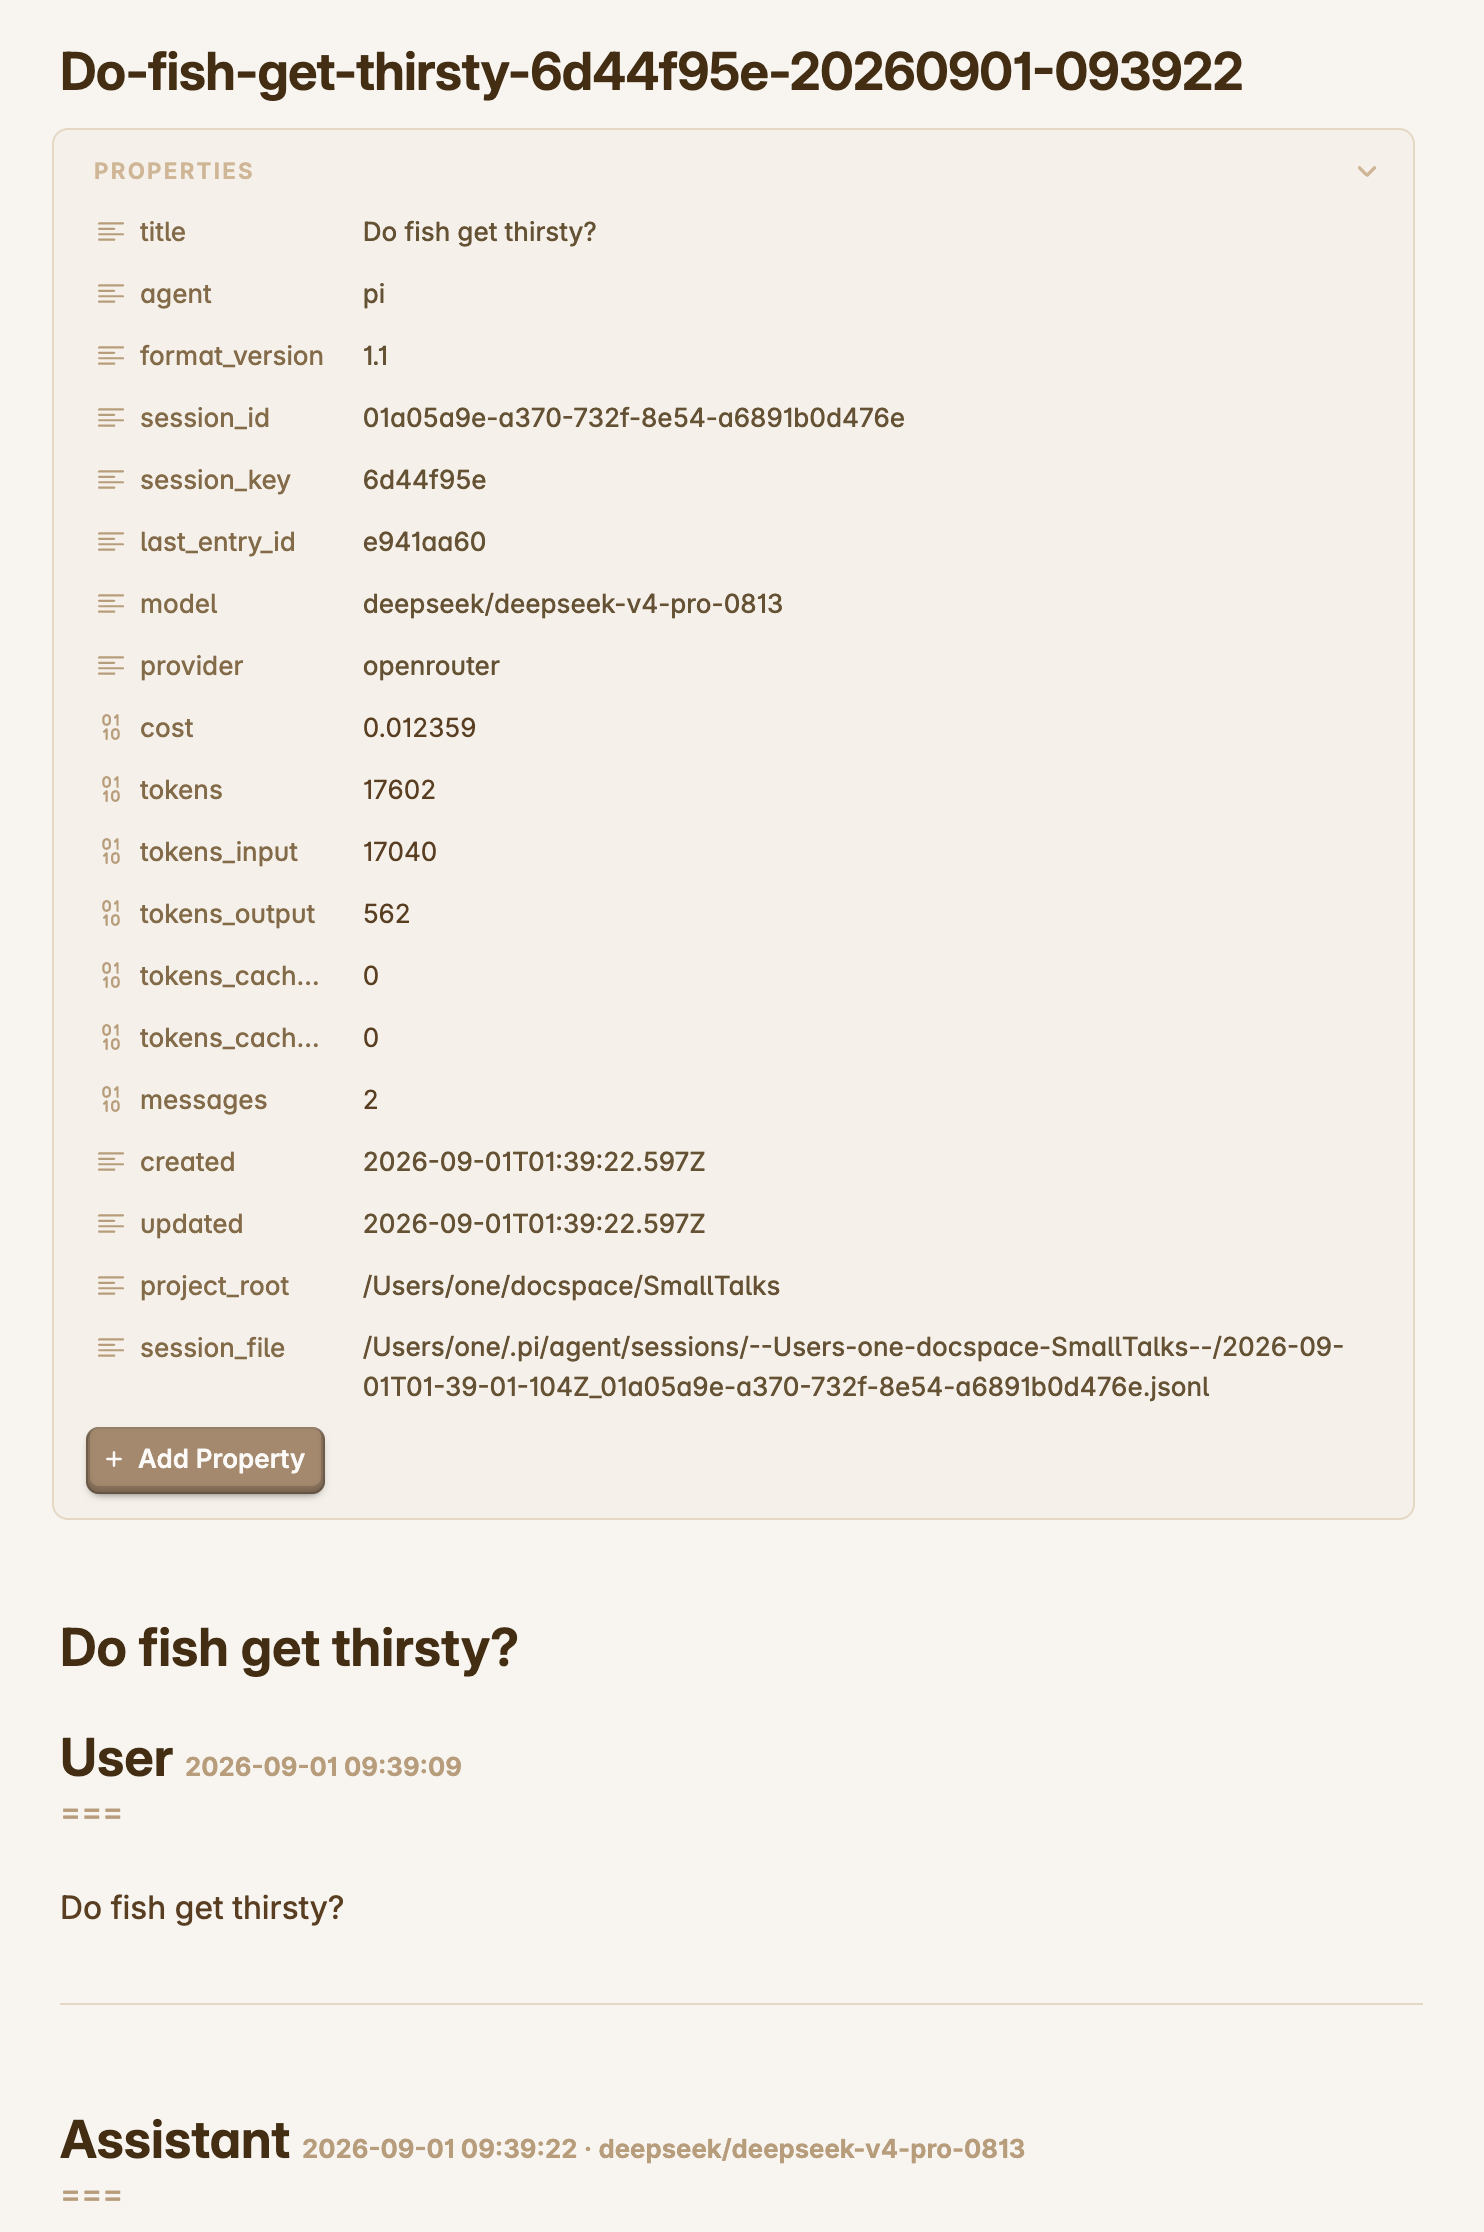
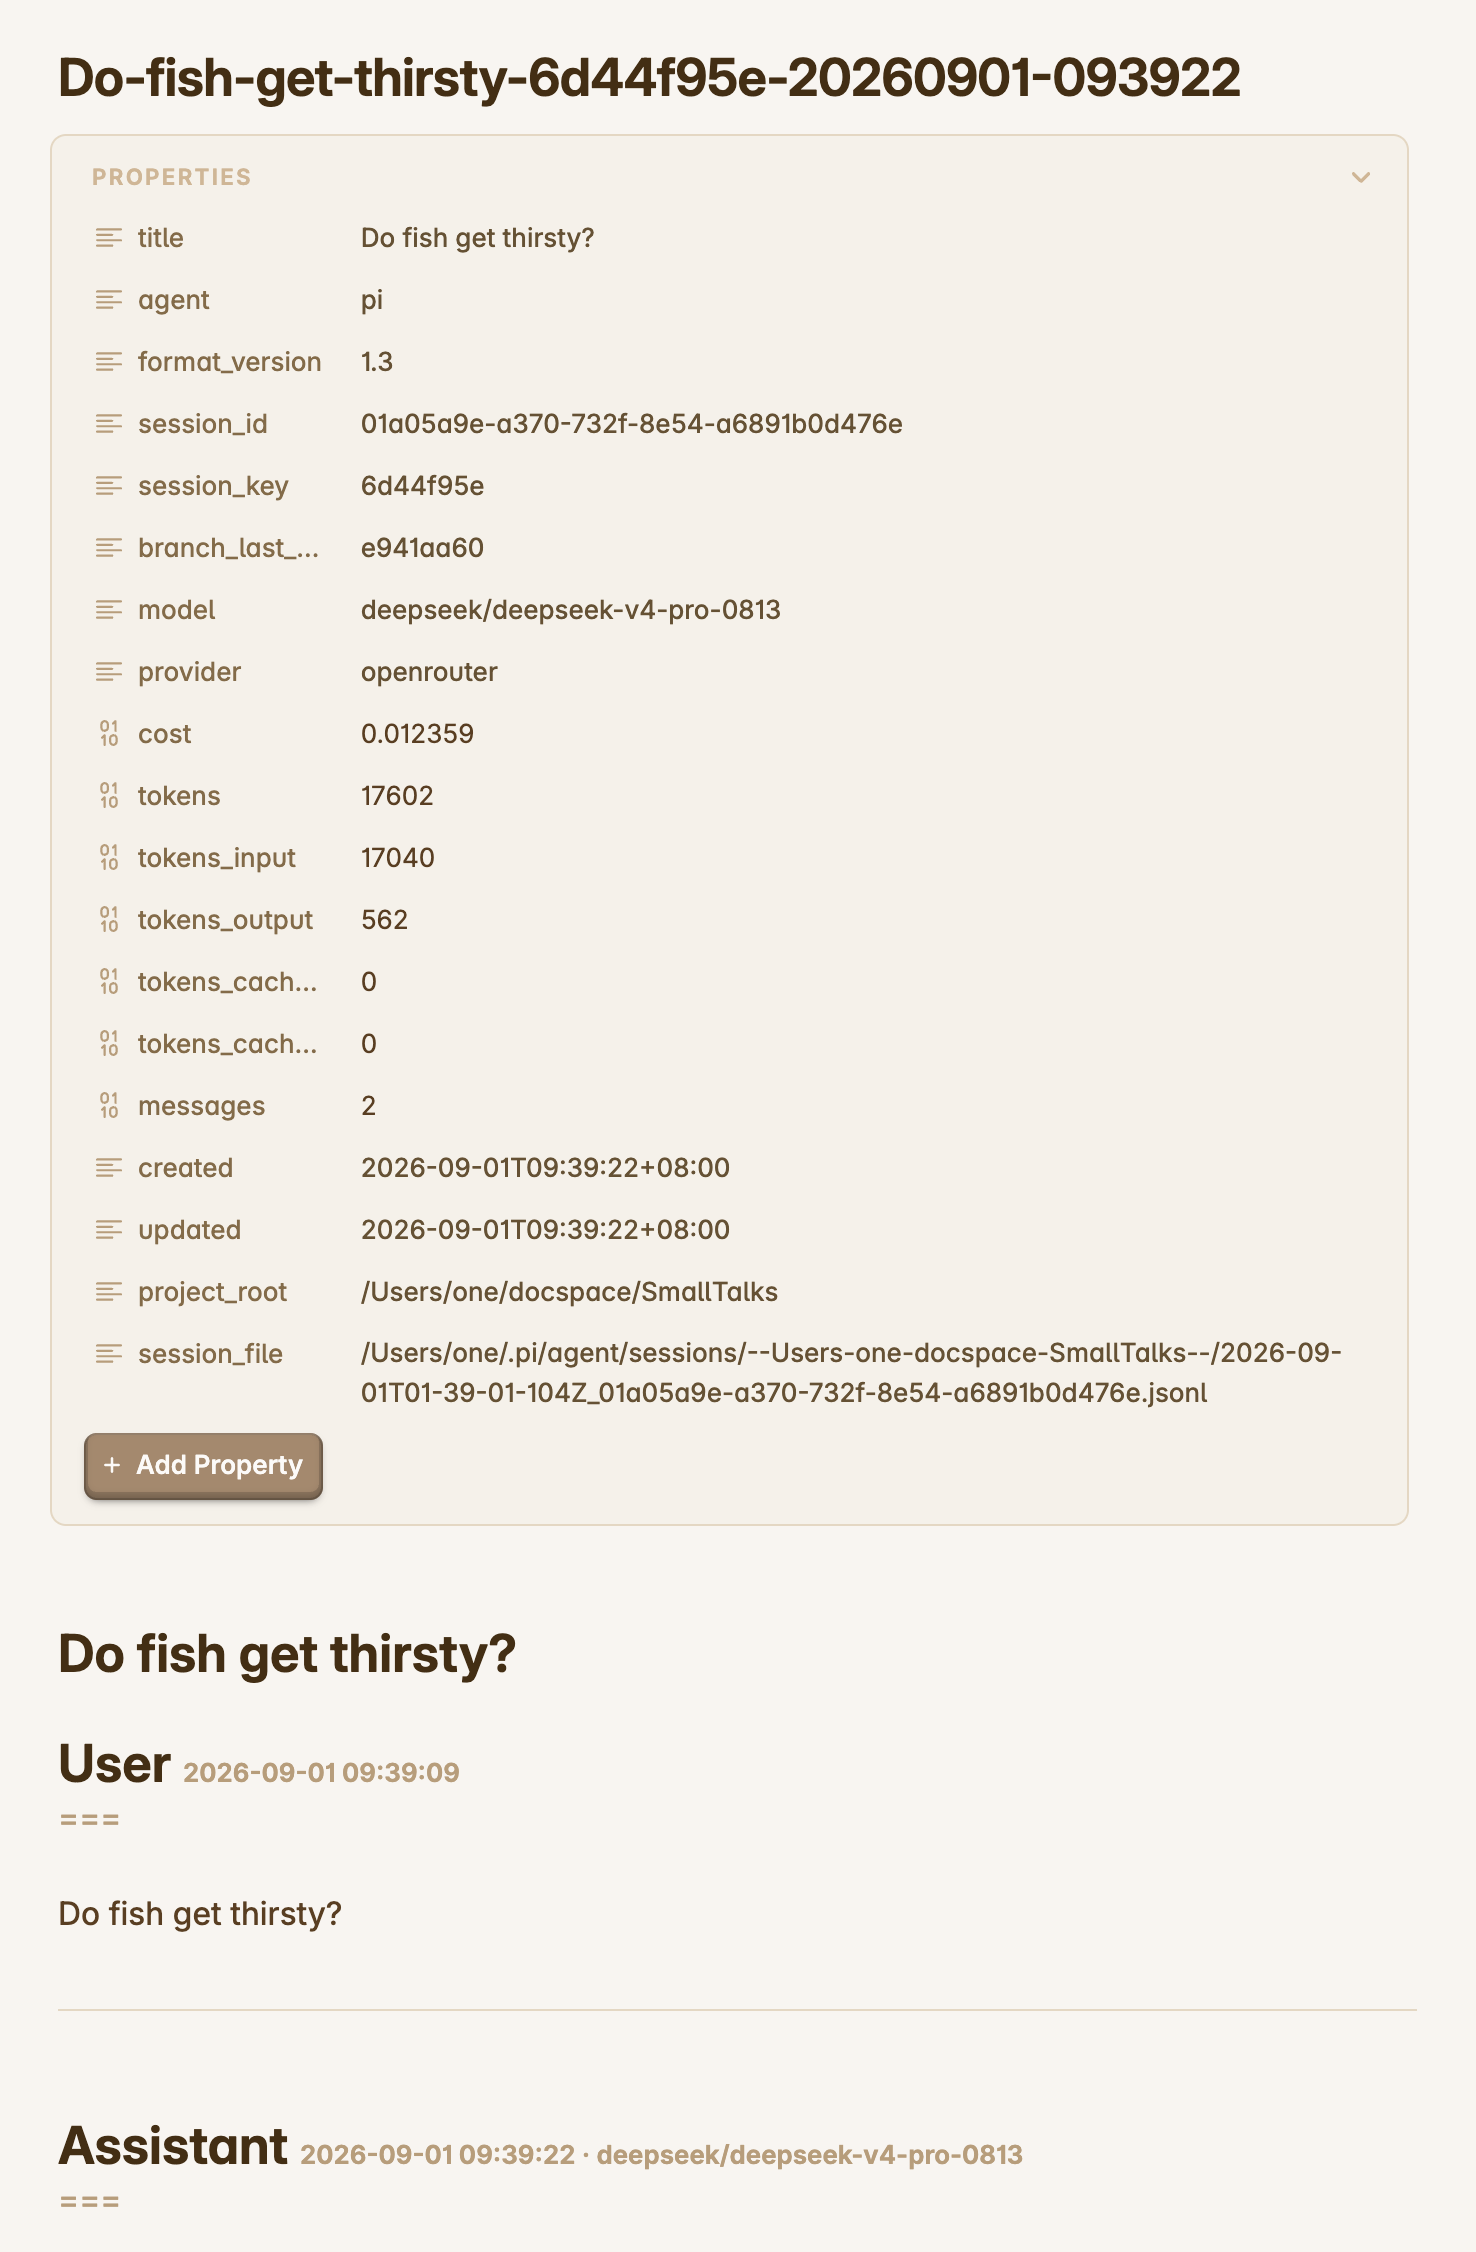
feat(auto-save-to-markdown): add timezone-aware timestamps and branch-scoped last entry id
- Replace UTC timestamps with local timezone ISO 8601 (e.g. +08:00)
- Rename frontmatter field `last_entry_id` to `branch_last_entry_id`
- Bump FORMAT_VERSION to 1.3
- Update README examples and screenshot
- Add changeset entries for both changes

diff --git a/packages/auto-save-to-markdown/index.ts b/packages/auto-save-to-markdown/index.ts
@@ -25,11 +25,14 @@
  *   plugins for other runtimes would write their own value), format_version
  *   (the document format of the last write — additive frontmatter fields
  *   never bump it; see FORMAT_VERSION), session id, session key (the
- *   filename key), last entry id (the id of the deepest message entry on the
- *   saved branch — the file's position in the session jsonl tree at the last
- *   write), model, provider, cumulative cost and tokens (input, output,
- *   cache read/write), message count, created/updated timestamps, project
- *   root and session file.
+ *   filename key), branch last entry id (field `branch_last_entry_id` — the
+ *   id of the deepest message entry on the saved branch: the file's position
+ *   in the session jsonl tree at the last write, scoped to this file's
+ *   branch, not the session-wide last entry), model, provider, cumulative
+ *   cost and tokens (input, output,
+ *   cache read/write), message count, created/updated timestamps (tz-aware
+ *   ISO 8601 in the local timezone with its numeric UTC offset, e.g.
+ *   "2026-08-29T13:05:12+08:00"), project root and session file.
  * - Body format: every message block opens with a setext-H1 info header
  *   (`User <span …>YYYY-MM-DD HH:MM:SS</span>` /
  *   `Assistant <span …>YYYY-MM-DD HH:MM:SS · model</span>`, where the span
@@ -196,7 +199,7 @@ const SAVE_STATE_SCHEMA = "1.2";
  * the frontmatter and the document heading); additive frontmatter fields do
  * NOT bump it — they are invisible to any within-major parser.
  */
-const FORMAT_VERSION = "1.2";
+const FORMAT_VERSION = "1.3";
 
 /**
  * Package version of this extension, read best-effort from the adjacent
@@ -248,8 +251,8 @@ interface SaveState {
   /**
    * Id of the session tree leaf at save time (getLeafId()) — may be a custom
    * state entry rather than a message; used to rank continuation candidates
-   * on the current path. Distinct from frontmatter `last_entry_id`, which is
-   * the deepest message entry (an id actually present in the file).
+   * on the current path. Distinct from frontmatter `branch_last_entry_id`,
+   * which is the deepest message entry (an id actually present in the file).
    */
   lastSavedEntryId: string | null;
   file: string;
@@ -388,10 +391,11 @@ interface BranchMeta {
   sessionKey: string;
   /**
    * Id of the deepest message entry on the saved branch at the last write
-   * (field name `last_entry_id`) — the file's exact position in the
-   * session jsonl tree. Updated on every append, like `updated`.
+   * (field name `branch_last_entry_id`) — the file's exact position in the
+   * session jsonl tree, scoped to this file's branch rather than the
+   * session-wide last entry. Updated on every append, like `updated`.
    */
-  lastEntryId: string;
+  branchLastEntryId: string;
   model: string | null;
   provider: string | null;
   cost: number;
@@ -1097,6 +1101,24 @@ export default function (pi: ExtensionAPI) {
     return `"${safe.replace(/\\/g, "\\\\").replace(/"/g, '\\"')}"`;
   }
 
+  /**
+   * ISO 8601 timestamp in the machine's local timezone, with the numeric
+   * UTC offset appended (e.g. "2026-08-29T13:05:12+08:00"): tz-aware, so the
+   * value reads as local wall-clock time without assuming the reader's
+   * timezone. Legacy files written with UTC "Z" values parse identically.
+   */
+  function localIsoTimestamp(date: Date): string {
+    const pad = (n: number) => String(n).padStart(2, "0");
+    const offsetMin = -date.getTimezoneOffset();
+    const sign = offsetMin >= 0 ? "+" : "-";
+    const abs = Math.abs(offsetMin);
+    return (
+      `${date.getFullYear()}-${pad(date.getMonth() + 1)}-${pad(date.getDate())}` +
+      `T${pad(date.getHours())}:${pad(date.getMinutes())}:${pad(date.getSeconds())}` +
+      `${sign}${pad(Math.floor(abs / 60))}:${pad(abs % 60)}`
+    );
+  }
+
   function frontmatter(meta: BranchMeta): string {
     const lines: string[] = ["---"];
     lines.push(`title: ${yamlQuote(meta.title)}`);
@@ -1104,7 +1126,7 @@ export default function (pi: ExtensionAPI) {
     lines.push(`format_version: ${yamlQuote(FORMAT_VERSION)}`);
     if (meta.sessionId) lines.push(`session_id: ${yamlQuote(meta.sessionId)}`);
     lines.push(`session_key: ${yamlQuote(meta.sessionKey)}`);
-    lines.push(`last_entry_id: ${yamlQuote(meta.lastEntryId)}`);
+    lines.push(`branch_last_entry_id: ${yamlQuote(meta.branchLastEntryId)}`);
     if (meta.model) lines.push(`model: ${yamlQuote(meta.model)}`);
     if (meta.provider) lines.push(`provider: ${yamlQuote(meta.provider)}`);
     lines.push(`cost: ${meta.cost.toFixed(6)}`);
@@ -1177,14 +1199,14 @@ export default function (pi: ExtensionAPI) {
         tokensCacheWrite += usage.cacheWrite ?? 0;
       }
     }
-    const now = new Date().toISOString();
+    const now = localIsoTimestamp(new Date());
     return {
       title: displayTitle(ctx, firstUserText(pathMessages)),
       agent: agent ?? AGENT,
       sessionId: ctx.session.getSessionId(),
       sessionFile: ctx.session.getSessionFile() ?? null,
       sessionKey,
-      lastEntryId: pathMessages[pathMessages.length - 1].id,
+      branchLastEntryId: pathMessages[pathMessages.length - 1].id,
       model,
       provider,
       cost,

diff --git a/packages/auto-save-to-markdown/README.md b/packages/auto-save-to-markdown/README.md
@@ -92,10 +92,10 @@ changes never touch the filename, and manually renamed files are left alone.
 ---
 title: "Fix login redirect loop"
 agent: "pi"
-format_version: "1.2"
+format_version: "1.3"
 session_id: "d0a4f541-976d-4d1b-8e1c-30a1f2b3c4d5"
 session_key: "c2088d77"
-last_entry_id: "019be3a2-1f4d-7c8a-9b01-d23e45f6a7b8"
+branch_last_entry_id: "019be3a2-1f4d-7c8a-9b01-d23e45f6a7b8"
 model: "z-ai/glm-5.3"
 provider: "openrouter"
 cost: 0.023401
@@ -105,8 +105,8 @@ tokens_output: 3515
 tokens_cache_read: 0
 tokens_cache_write: 0
 messages: 8
-created: "2026-08-29T05:05:12.000Z"
-updated: "2026-08-29T05:42:10.000Z"
+created: "2026-08-29T13:05:12+08:00"
+updated: "2026-08-29T13:42:10+08:00"
 project_root: "/Users/me/project"
 session_file: "~/.pi/agent/sessions/--Users-me-project-20260829-050500_ab12.jsonl"
 ---

diff --git a/packages/auto-save-to-markdown/README.zh.md b/packages/auto-save-to-markdown/README.zh.md
@@ -66,10 +66,10 @@ PI_SAVE_CONVERSATION_DIR=notes/ai pi
 ---
 title: "修复登录重定向死循环"
 agent: "pi"
-format_version: "1.2"
+format_version: "1.3"
 session_id: "d0a4f541-976d-4d1b-8e1c-30a1f2b3c4d5"
 session_key: "c2088d77"
-last_entry_id: "019be3a2-1f4d-7c8a-9b01-d23e45f6a7b8"
+branch_last_entry_id: "019be3a2-1f4d-7c8a-9b01-d23e45f6a7b8"
 model: "z-ai/glm-5.3"
 provider: "openrouter"
 cost: 0.023401
@@ -79,8 +79,8 @@ tokens_output: 3515
 tokens_cache_read: 0
 tokens_cache_write: 0
 messages: 8
-created: "2026-08-29T05:05:12.000Z"
-updated: "2026-08-29T05:42:10.000Z"
+created: "2026-08-29T13:05:12+08:00"
+updated: "2026-08-29T13:42:10+08:00"
 project_root: "/Users/me/project"
 session_file: "~/.pi/agent/sessions/--Users-me-project-20260829-050500_ab12.jsonl"
 ---

diff --git a/.changeset/auto-save-tz-aware-timestamps.md b/.changeset/auto-save-tz-aware-timestamps.md
@@ -1,0 +1,5 @@
+---
+"pi-auto-save-to-markdown": patch
+---
+
+Write the frontmatter `created` and `updated` timestamps as tz-aware local time: ISO 8601 with the machine's numeric UTC offset (e.g. `2026-08-29T13:05:12+08:00`) instead of UTC `…Z`. The value reads as local wall-clock time without assuming the reader's timezone, matching the local times already shown in the message headers and the filename timestamp. Appends preserve an existing file's original `created` verbatim, so legacy UTC values stay as they are — both spellings are ISO 8601 and parse identically. Document format 1.3 covers this and the `branch_last_entry_id` rename (both ship together, parse-invariant tweaks).

diff --git a/.changeset/auto-save-branch-last-entry-id.md b/.changeset/auto-save-branch-last-entry-id.md
@@ -1,0 +1,5 @@
+---
+"pi-auto-save-to-markdown": patch
+---
+
+Rename the frontmatter `last_entry_id` field to `branch_last_entry_id` to state its actual scope: the id of the deepest message entry on the saved branch — the last entry of THIS file's branch, not of the whole session tree (a `/tree` switch can leave a newer entry elsewhere in the tree). The value and its update-on-every-append semantics are unchanged; the new name keeps the `_id` suffix convention of `session_id`/`session_key`. Document format bumped to 1.3 (a field rename is a parse-invariant change, not an additive field).
